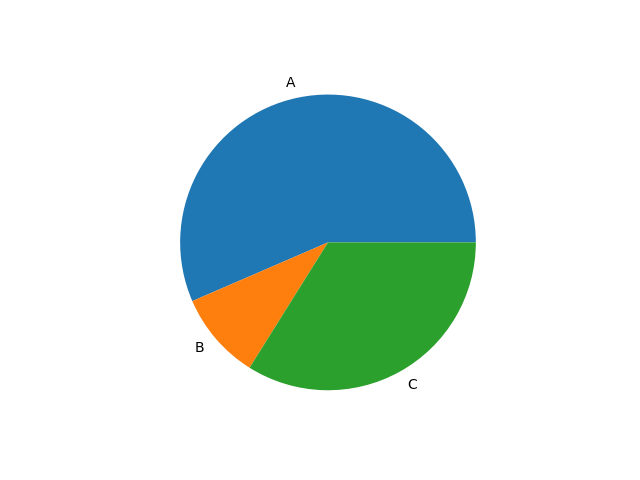
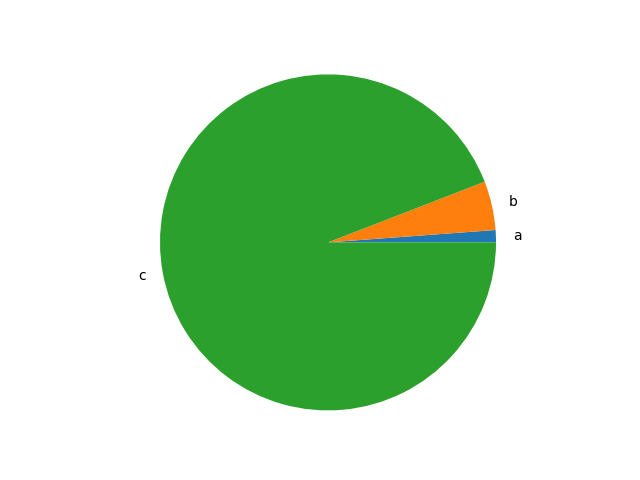
graficas con nombre

Changed region(s): [[0.25, 0.1562, 0.8125, 0.875]]

diff --git a/app/utils.py b/app/utils.py
@@ -1,0 +1,19 @@
+def get_population(country_dict):
+    population_dict = {
+        
+        '1970': int(country_dict['1970 Population']),
+        '1980': int(country_dict['1980 Population']),
+        '1990': int(country_dict['1990 Population']),
+        '2000': int(country_dict['2000 Population']),
+        '2010': int(country_dict['2010 Population']),
+        '2015': int(country_dict['2015 Population']),
+        '2020': int(country_dict['2020 Population']),
+        '2022': int(country_dict['2022 Population']),
+    }
+    labels = population_dict.keys()
+    values = population_dict.values()
+    return labels, values
+
+def population_by_country(data, country):
+    result = list(filter(lambda item: item[ 'Country/Territory' ] == country, data))
+    return result

diff --git a/app/main.py b/app/main.py
@@ -1,0 +1,24 @@
+import utils
+import read_csv
+import charts 
+
+def run():
+    
+    data = read_csv.read_csv('./app/data.csv')
+    data = list(filter(lambda item : item['Continent'] == 'South America', data))
+
+    countries = list(map(lambda x: x['Country/Territory'], data))
+    percentages = list(map(lambda x: x['World Population Percentage'], data))
+
+    country = input('Type Country =>')
+
+    result = utils.population_by_country(data, country)
+    
+    if len(result) > 0:
+        country = result[0]
+        labels, values = utils.get_population(country)
+        charts.generate_bar_chart(country['Country/Territory'], labels, values)
+
+
+if __name__ == '__main__':
+    run()

diff --git a/app/charts.py b/app/charts.py
@@ -1,0 +1,21 @@
+import matplotlib.pyplot as plt
+
+def generate_bar_chart(name, labels, values):
+    fig, ax = plt.subplots()
+    ax.bar(labels, values)
+    plt.savefig(f'./app/imgs/{name}.png')
+    plt.close()
+    
+    
+def generate_pie_chart(labels, values):
+    fig, ax = plt.subplots()
+    ax.pie(values, labels=labels)
+    ax.axis('equal')
+    plt.savefig('pie.png')
+    plt.close()
+    
+if __name__ == '__main__':
+    labels = ['a', 'b', 'c']
+    values = [10, 40, 800]
+    # generate_bar_chart(labels, values)
+    generate_pie_chart(labels, values)

diff --git a/app/read_csv.py b/app/read_csv.py
@@ -1,0 +1,16 @@
+import csv
+def read_csv(path):
+    with open(path, 'r') as csvfile:
+        reader = csv.reader(csvfile, delimiter=',')
+        header = next(reader)
+        data = []
+        for row in reader:
+            iterable = zip(header, row)
+            country_dict = {key: value for key, value in iterable}
+            data.append(country_dict)
+        return data
+    
+            
+if __name__ == '__main__':
+   data = read_csv('./app/data.csv')
+   print(data[0])

diff --git a/app/example.py b/app/example.py
@@ -1,0 +1,3 @@
+import main
+
+print(main.data)
